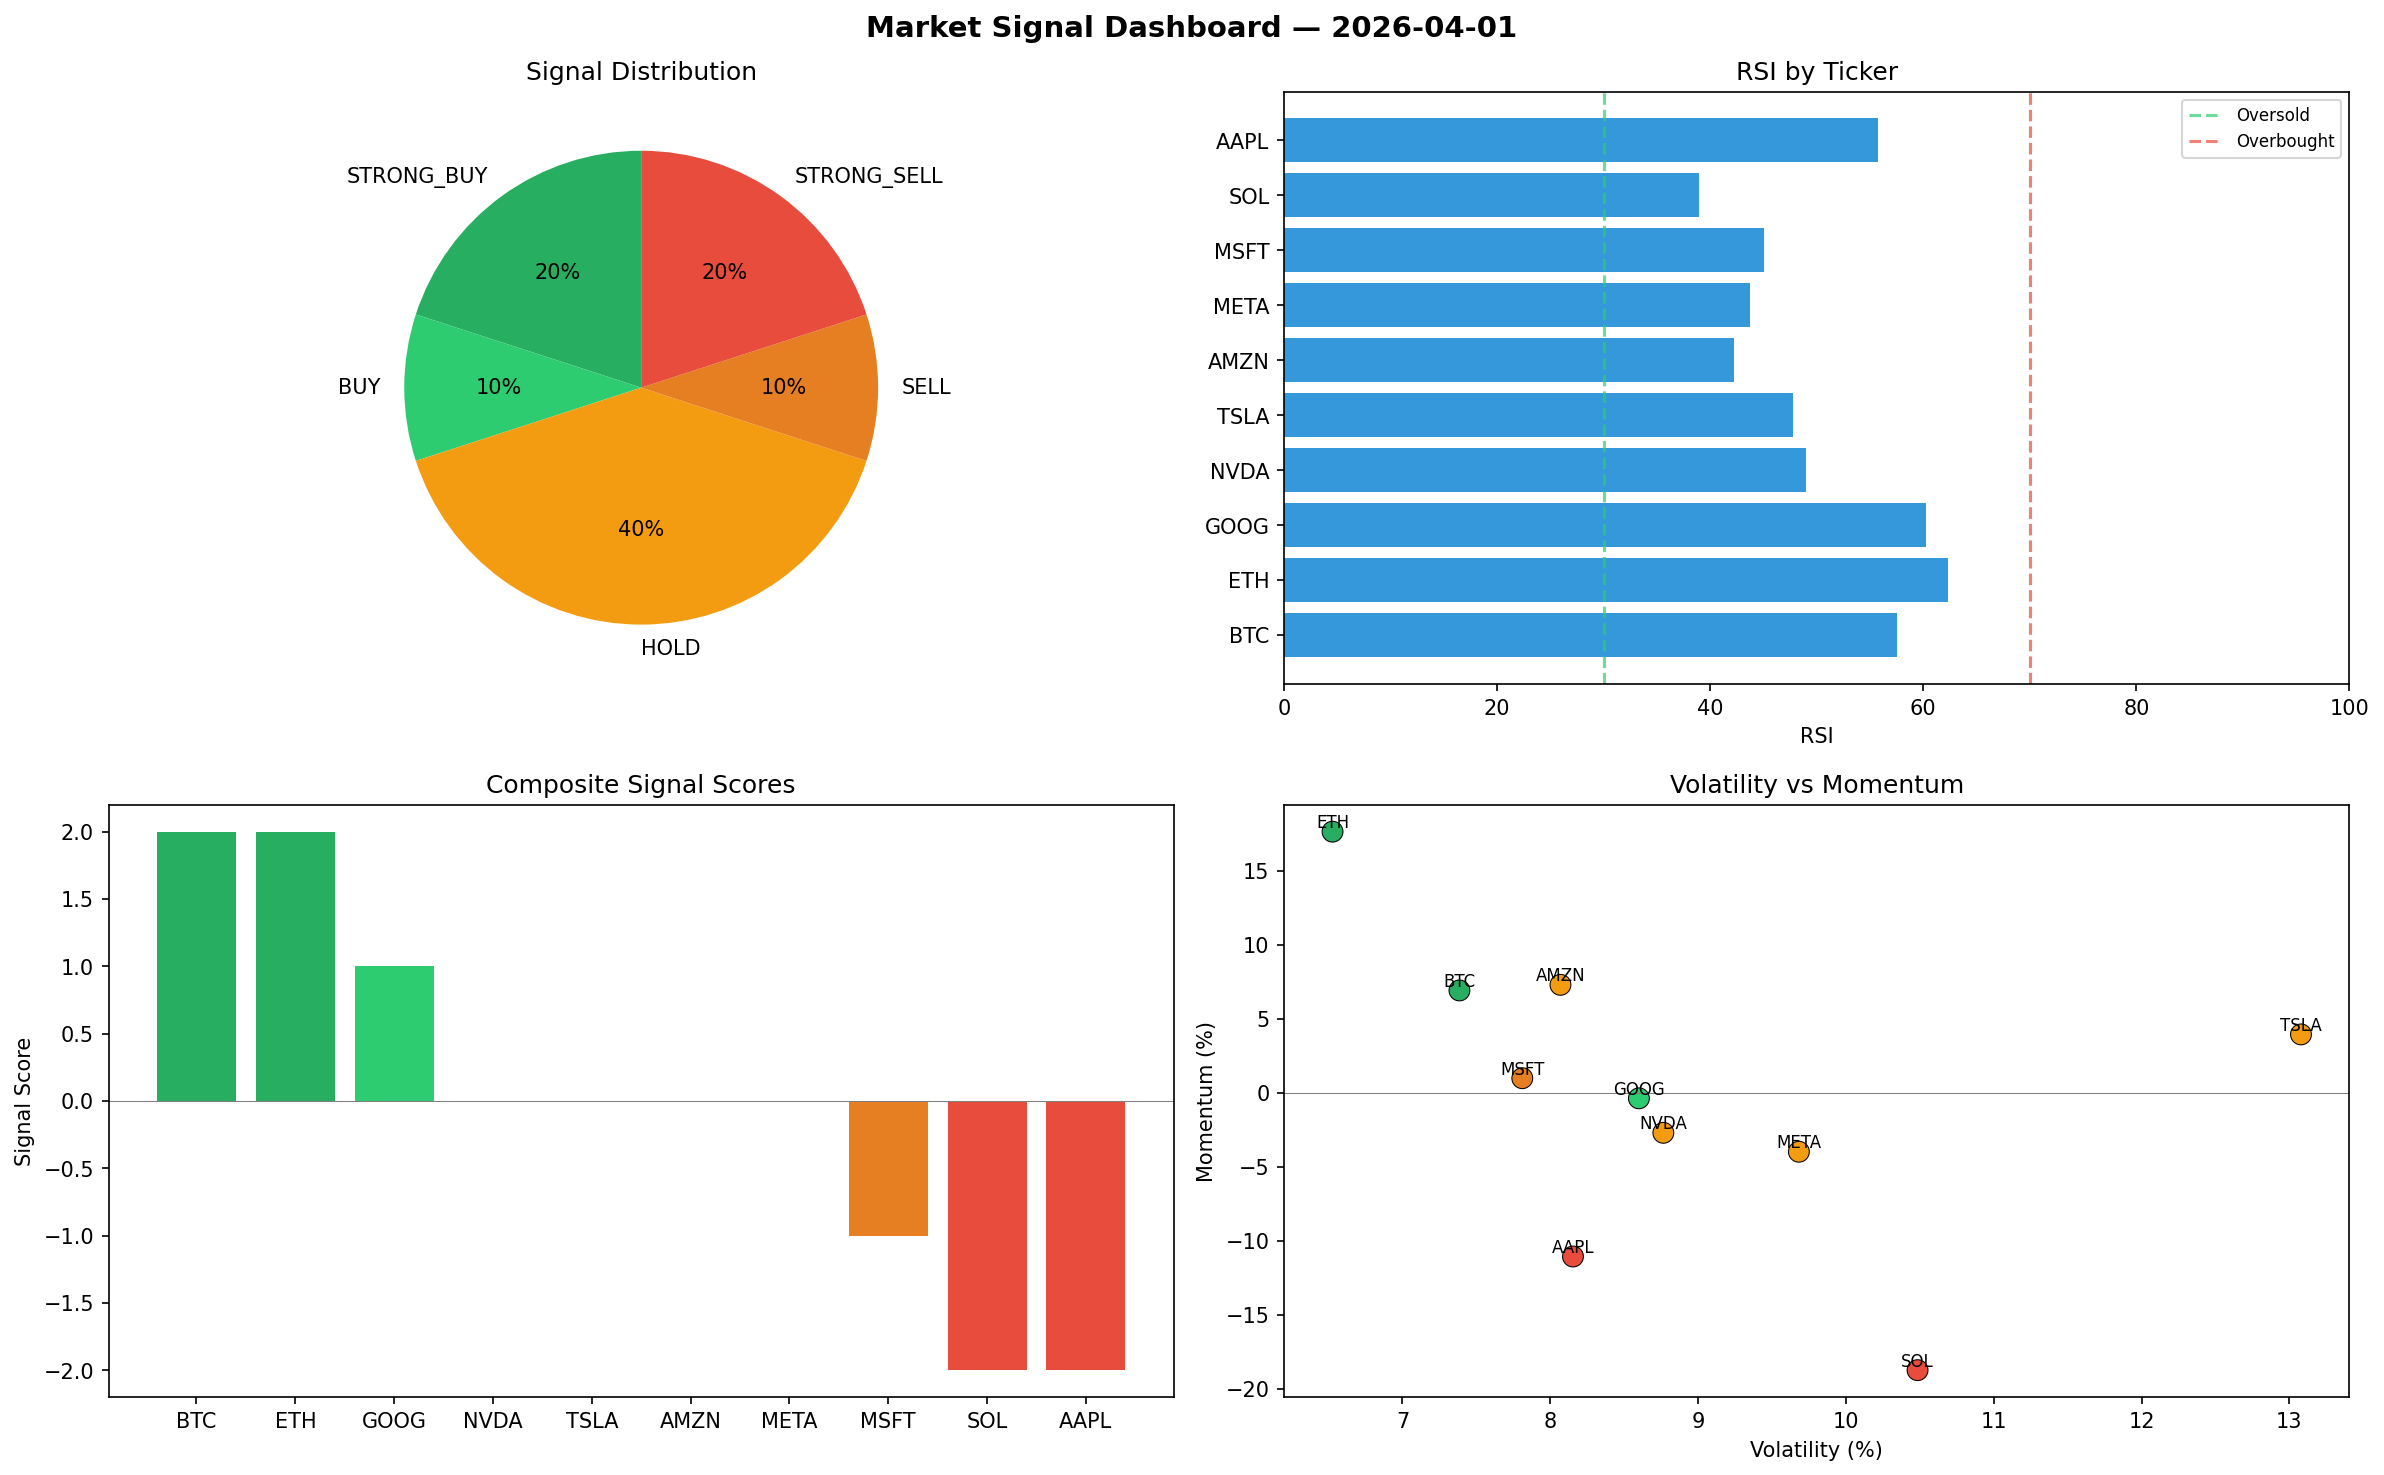
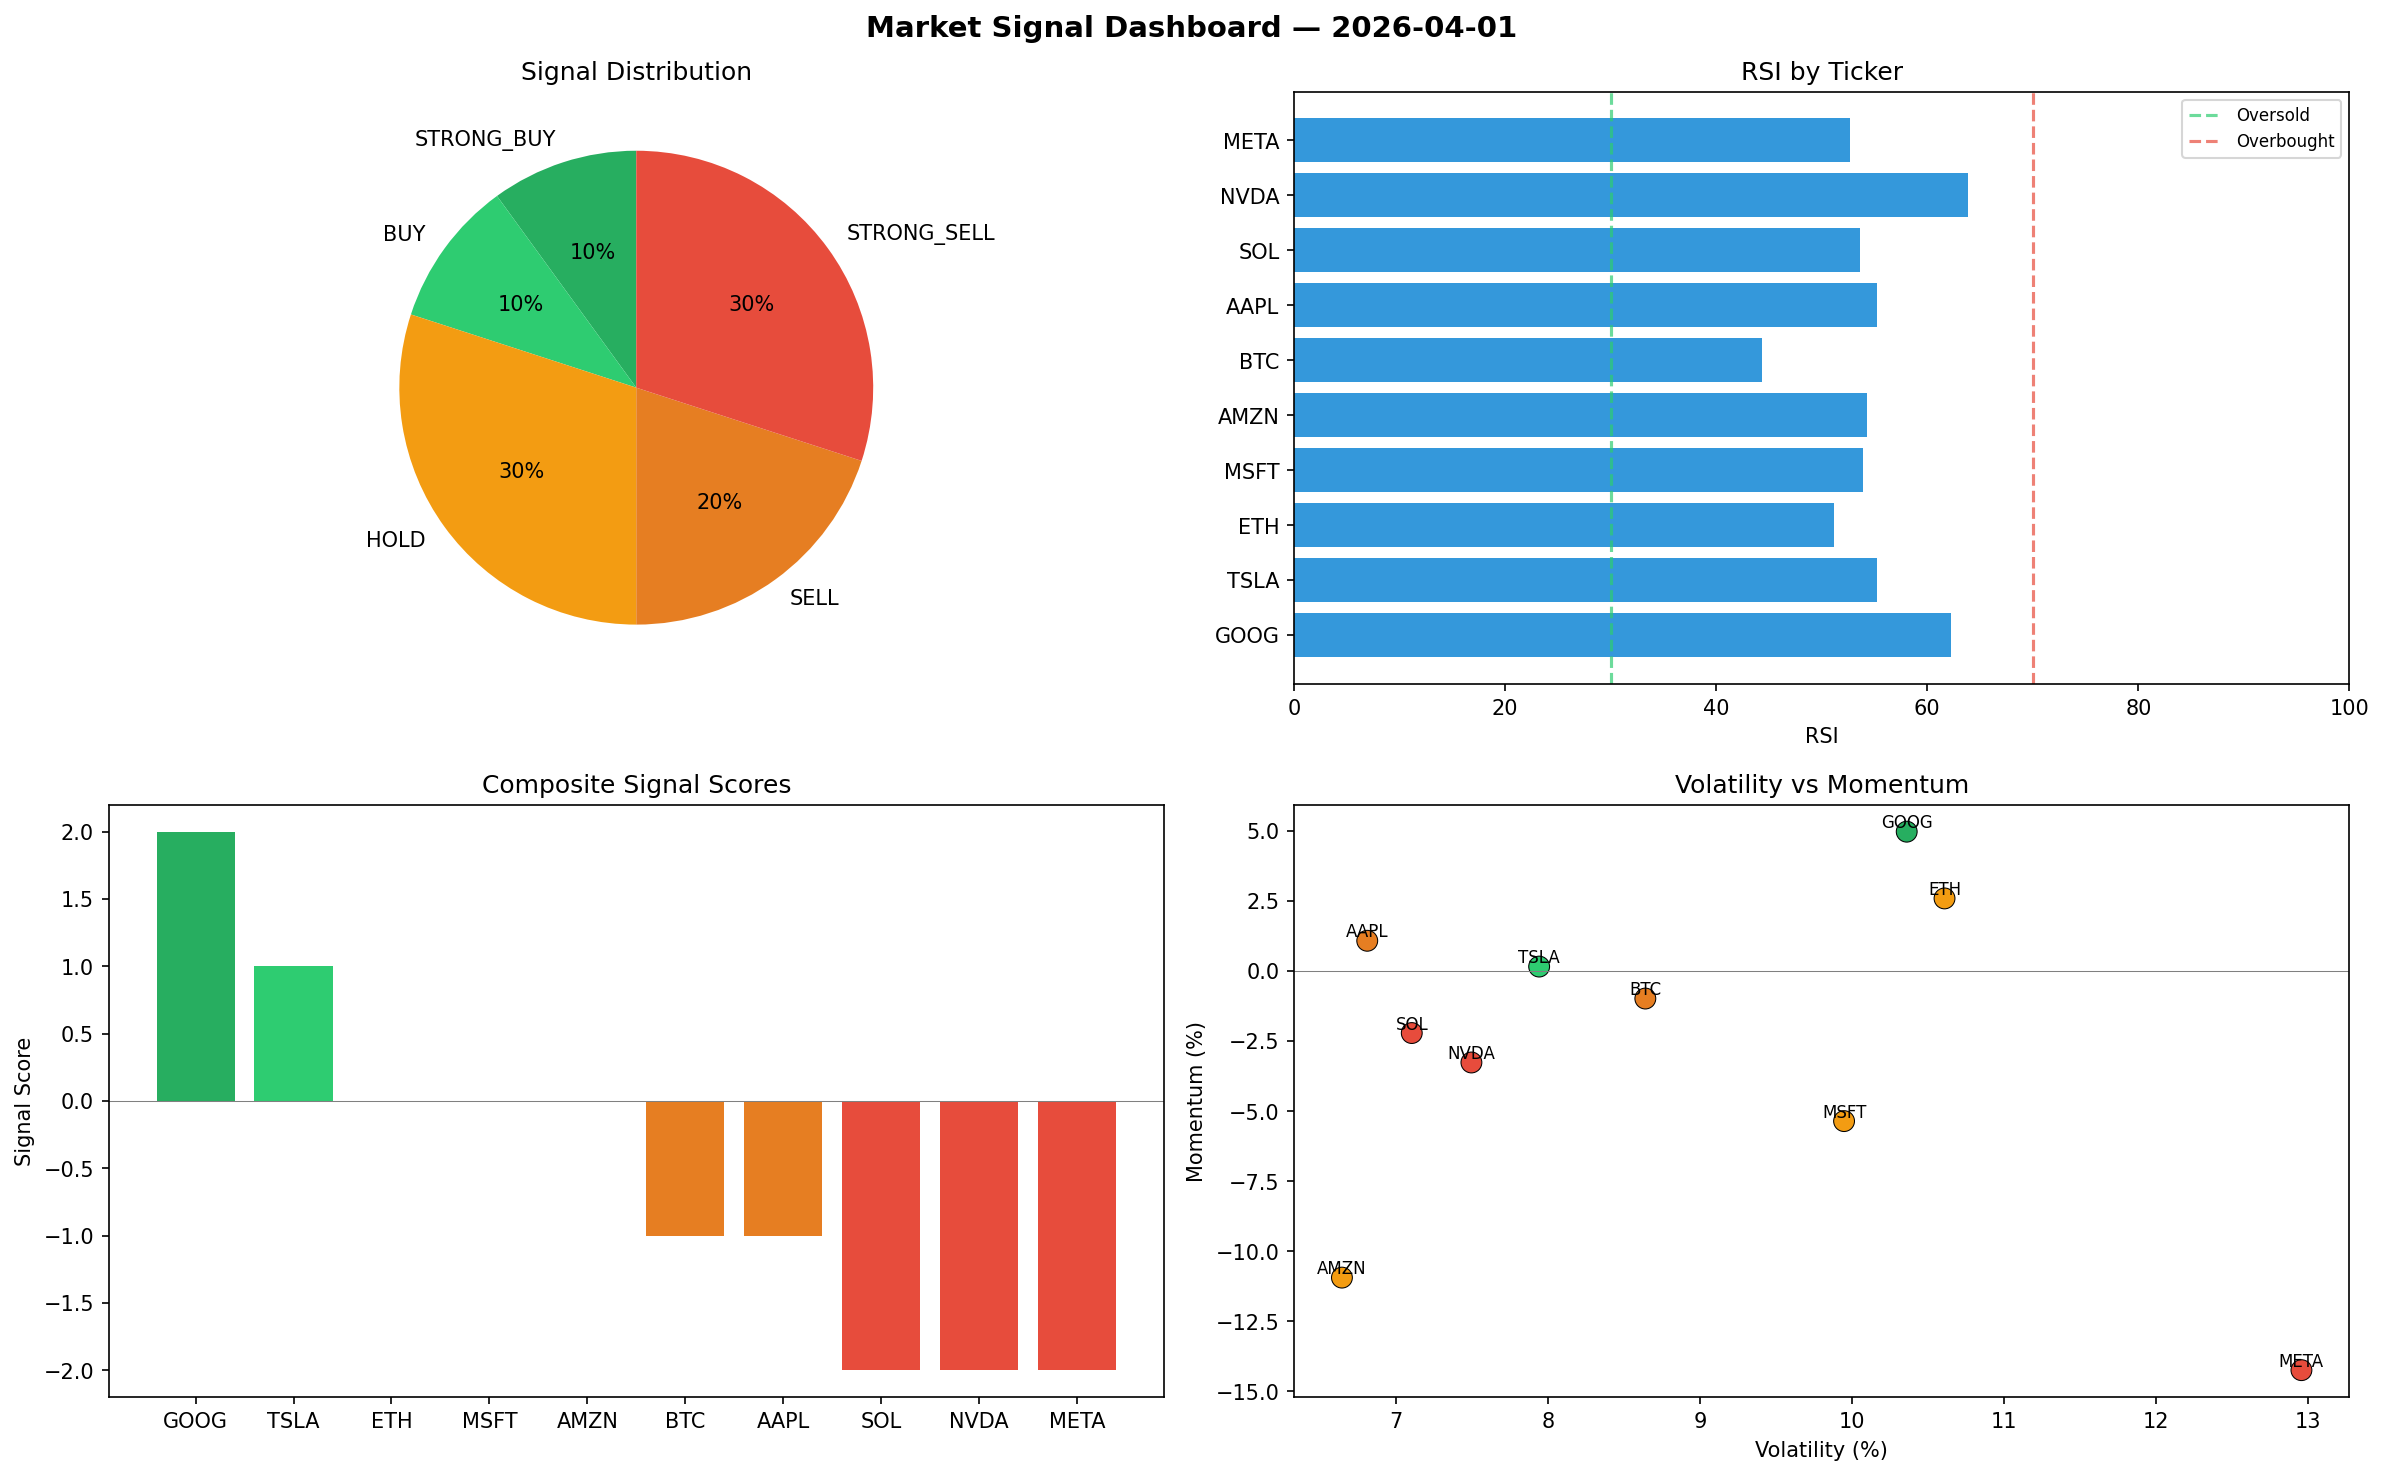
automated-bots: market signals 2026-04-01T21:05

diff --git a/logs/2026-04-01.md b/logs/2026-04-01.md
@@ -1,6 +1,6 @@
 # Market Signal Report — 2026-04-01
 
-**Run ID:** `f67dca4644` | **Buy:** 3 | **Sell:** 3 | **Hold:** 4
+**Run ID:** `94742ed9b2` | **Buy:** 2 | **Sell:** 5 | **Hold:** 3
 
 ![Dashboard](2026-04-01_dashboard.png)
 
@@ -8,28 +8,28 @@
 
 | Ticker | Price | Signal | Score | RSI | Momentum | Confidence |
 |--------|-------|--------|-------|-----|----------|------------|
-| BTC | $4066.03 | **STRONG_BUY** | 2 | 57.49 | 0.069 | 0.5 |
-| ETH | $4449.32 | **STRONG_BUY** | 2 | 62.3 | 0.1763 | 0.5 |
-| GOOG | $2085.73 | **BUY** | 1 | 60.26 | -0.0039 | 0.25 |
-| NVDA | $711.23 | **HOLD** | 0 | 48.98 | -0.0272 | 0.0 |
-| TSLA | $4429.76 | **HOLD** | 0 | 47.75 | 0.0393 | 0.0 |
-| AMZN | $5028.17 | **HOLD** | 0 | 42.22 | 0.0728 | 0.0 |
-| META | $1300.65 | **HOLD** | 0 | 43.72 | -0.04 | 0.0 |
-| MSFT | $2940.62 | **SELL** | -1 | 45.05 | 0.0097 | 0.25 |
-| SOL | $324.25 | **STRONG_SELL** | -2 | 38.97 | -0.1876 | 0.5 |
-| AAPL | $102.77 | **STRONG_SELL** | -2 | 55.79 | -0.1108 | 0.5 |
+| GOOG | $4365.65 | **STRONG_BUY** | 2 | 62.28 | 0.0496 | 0.5 |
+| TSLA | $3022.3 | **BUY** | 1 | 55.24 | 0.0015 | 0.25 |
+| ETH | $1481.27 | **HOLD** | 0 | 51.12 | 0.0258 | 0.0 |
+| MSFT | $1497.12 | **HOLD** | 0 | 53.9 | -0.0536 | 0.0 |
+| AMZN | $1009.32 | **HOLD** | 0 | 54.32 | -0.1094 | 0.0 |
+| BTC | $2409.12 | **SELL** | -1 | 44.36 | -0.0099 | 0.25 |
+| AAPL | $1279.88 | **SELL** | -1 | 55.28 | 0.0107 | 0.25 |
+| SOL | $853.19 | **STRONG_SELL** | -2 | 53.63 | -0.0222 | 0.5 |
+| NVDA | $3804.0 | **STRONG_SELL** | -2 | 63.9 | -0.0327 | 0.5 |
+| META | $2611.96 | **STRONG_SELL** | -2 | 52.73 | -0.1424 | 0.5 |
 
 ## Delta vs Yesterday
 
 | Ticker | Today | Yesterday | Price Change | Signal Changed |
 |--------|-------|-----------|-------------|----------------|
-| BTC | STRONG_BUY | HOLD | 📉 -13.04% | ⚠ YES |
-| ETH | STRONG_BUY | STRONG_SELL | 📈 3.24% | ⚠ YES |
-| GOOG | BUY | HOLD | 📈 215.42% | ⚠ YES |
-| NVDA | HOLD | HOLD | 📉 -72.96% | — |
-| TSLA | HOLD | STRONG_BUY | 📈 37.73% | ⚠ YES |
-| AMZN | HOLD | SELL | 📈 115.18% | ⚠ YES |
-| META | HOLD | BUY | 📉 -72.08% | ⚠ YES |
-| MSFT | SELL | BUY | 📉 -22.63% | ⚠ YES |
-| SOL | STRONG_SELL | STRONG_BUY | 📉 -84.71% | ⚠ YES |
-| AAPL | STRONG_SELL | SELL | 📉 -97.66% | ⚠ YES |
+| GOOG | STRONG_BUY | HOLD | 📈 560.21% | ⚠ YES |
+| TSLA | BUY | STRONG_BUY | 📉 -6.03% | ⚠ YES |
+| ETH | HOLD | STRONG_SELL | 📉 -65.63% | ⚠ YES |
+| MSFT | HOLD | BUY | 📉 -60.61% | ⚠ YES |
+| AMZN | HOLD | SELL | 📉 -56.81% | ⚠ YES |
+| BTC | SELL | HOLD | 📉 -48.48% | ⚠ YES |
+| AAPL | SELL | SELL | 📉 -70.89% | — |
+| SOL | STRONG_SELL | STRONG_BUY | 📉 -59.76% | ⚠ YES |
+| NVDA | STRONG_SELL | HOLD | 📈 44.63% | ⚠ YES |
+| META | STRONG_SELL | BUY | 📉 -43.94% | ⚠ YES |
